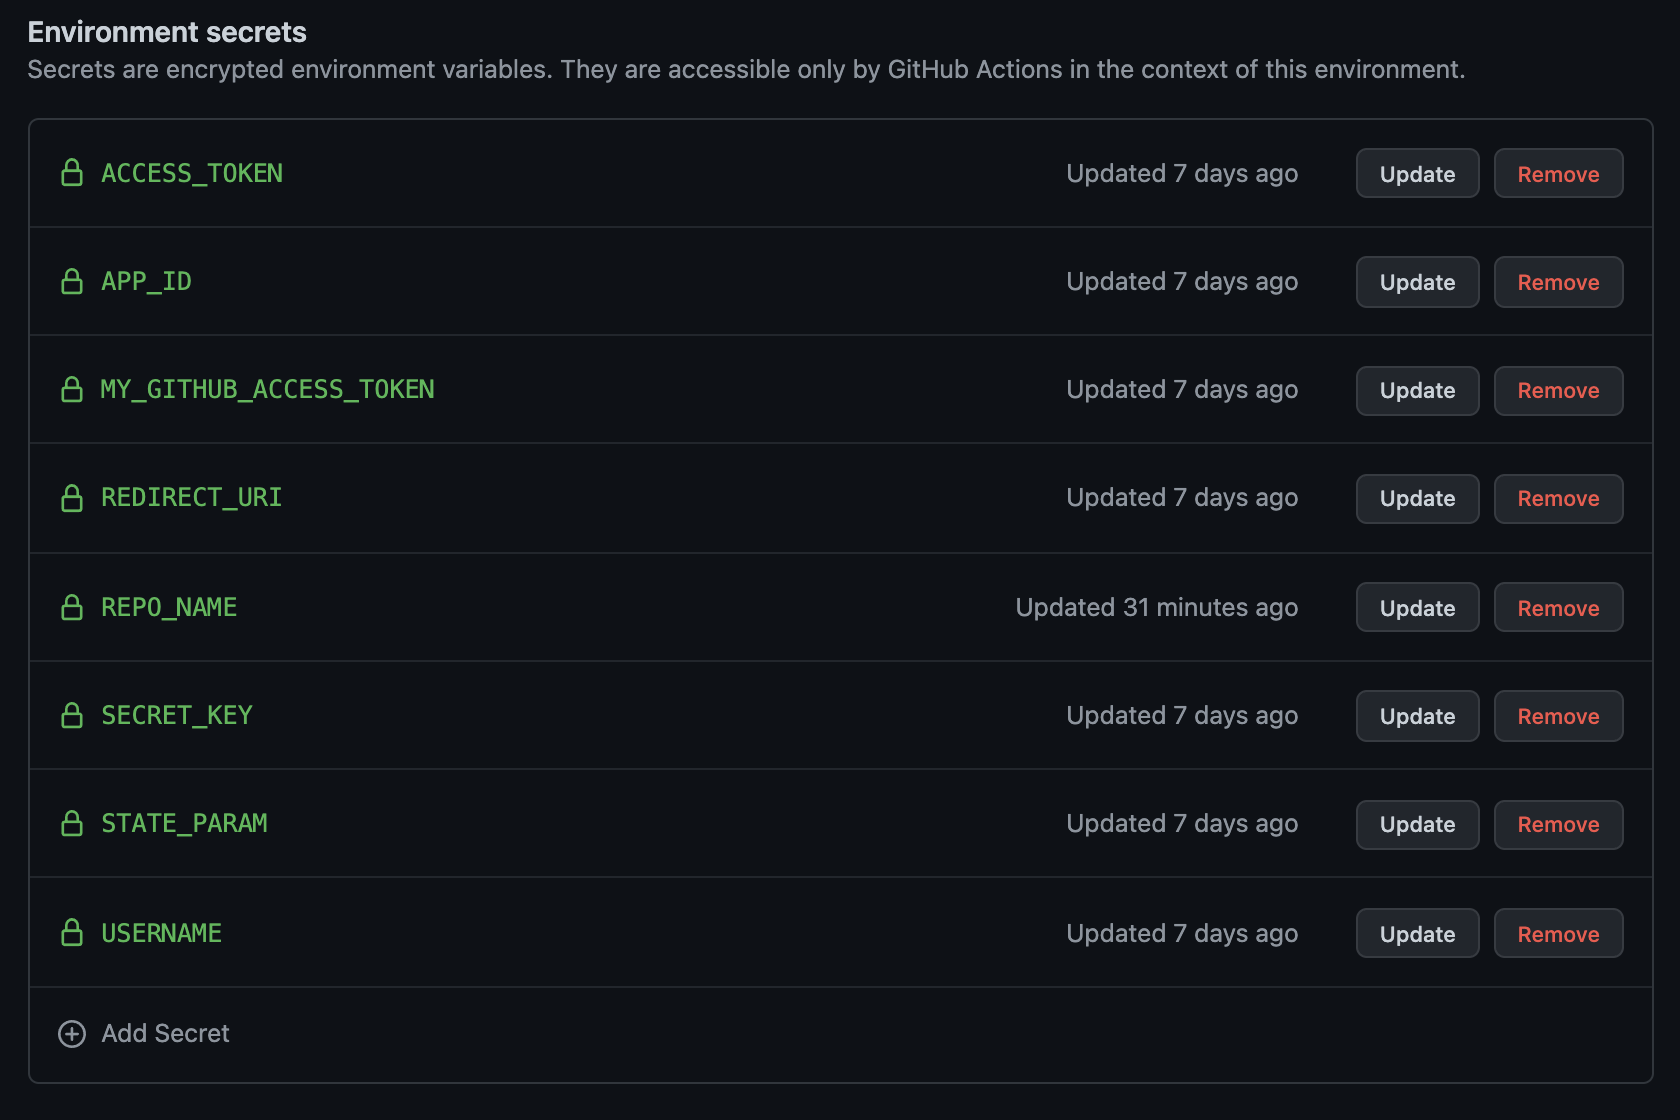
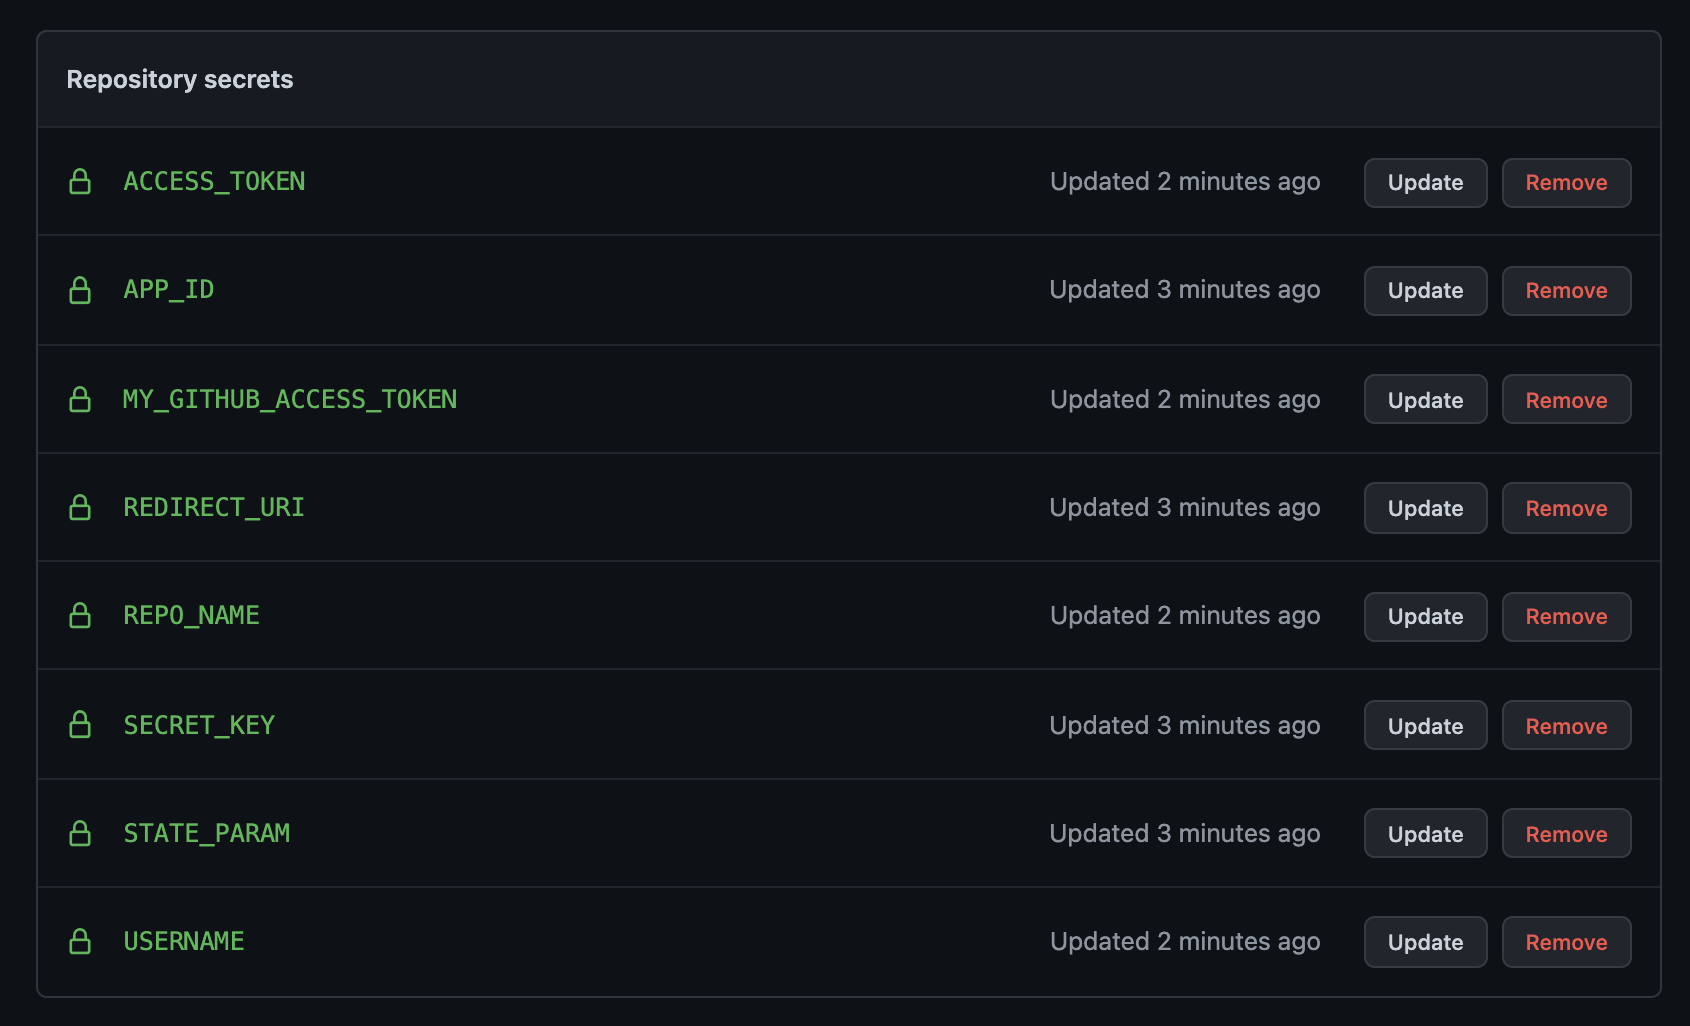
Modify README.md

diff --git a/main.py b/main.py
@@ -33,9 +33,6 @@ def main():
     repository_name = os.environ.get('REPO_NAME')
     path = 'posts.json'
     access_token = os.environ.get('MY_GITHUB_ACCESS_TOKEN')
-    print(len(access_token))
-    print(len(repository_name))
-    print(len(os.environ.get('USERNAME')))
     github_util = GithubUtil(access_token=access_token)
 
     # check collect github repo

diff --git a/README.md b/README.md
@@ -30,8 +30,7 @@
 ---
 ### 환경 변수 설정
 1. repo의 `settings`로 이동
-2. `settings`의 `Enviroments`에서 `New environment`를 이용하여 `secrets`를 생성
-3. 생성한 `secrets`를 눌러 `Environment secrets`에서 `Add Secret`를 이용하여 알맞은 환경 변수를 추가 합니다.
+2. `settings`의 `Secret`에서 `Actions secrets`를 이용하여 `New repository secret`를 생성
 ![AddEnvironment](./images/add_environ.png)
    
 - 환경 변수 정의
